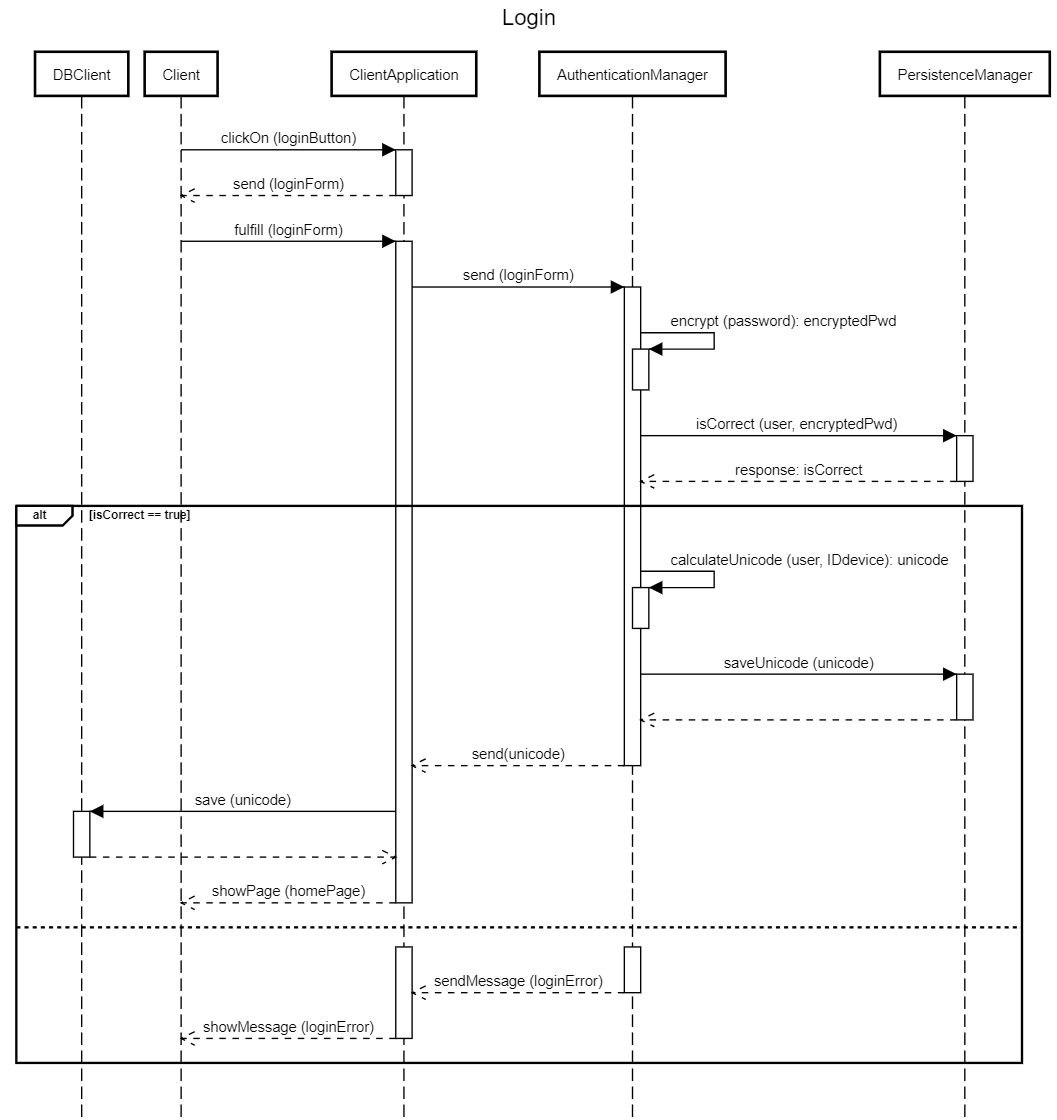
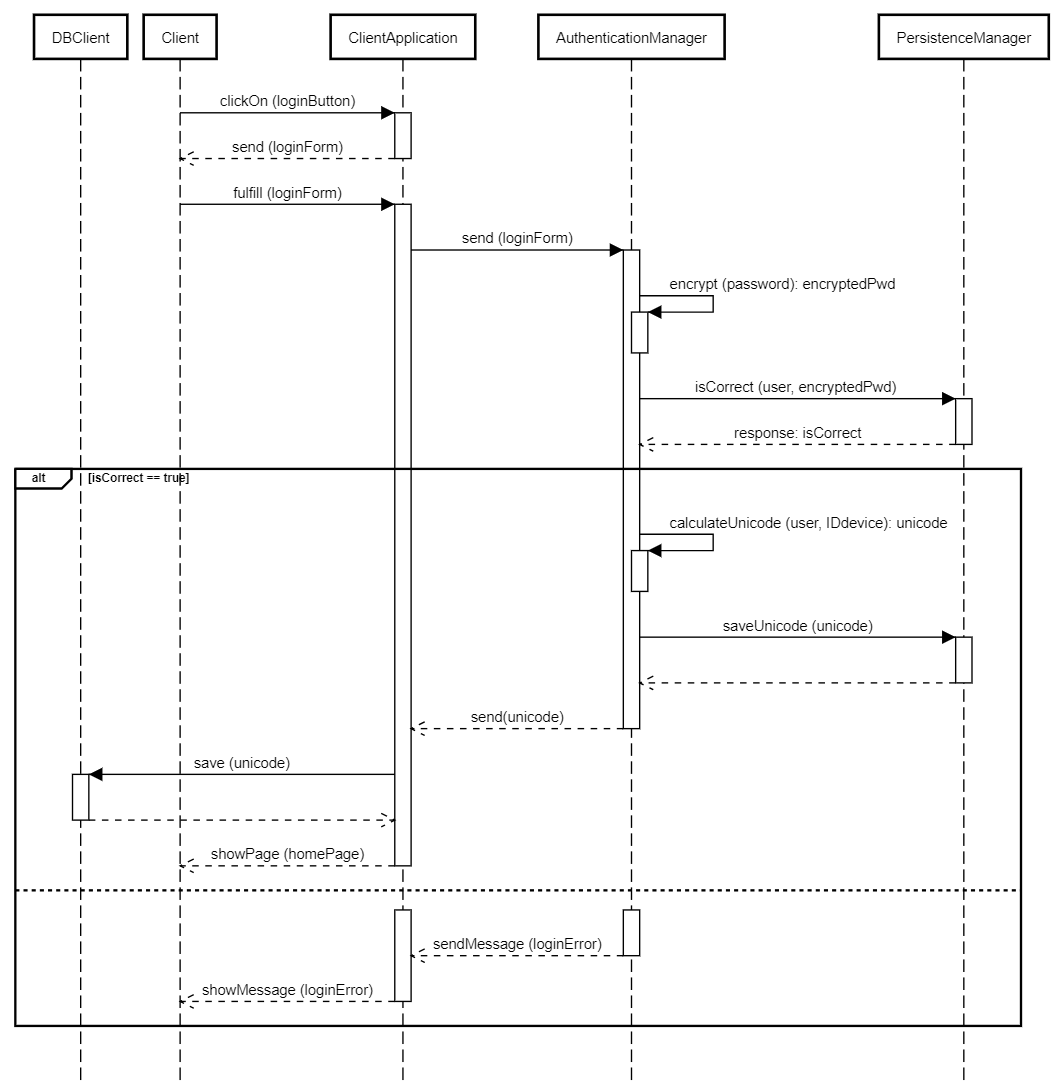
Sequence diagrams in the document

diff --git a/DD/2-ArchitecturalDesign/4-runtime_view.tex b/DD/2-ArchitecturalDesign/4-runtime_view.tex
@@ -1,0 +1,14 @@
+\subsection{Login}
+			\noindent\makebox[\textwidth]{\includegraphics[width=\paperwidth,height=\paperheight,keepaspectratio]{sequence_diagrams/login.png}}
+\subsection{Authentication functions for each operation}
+		\noindent\makebox[\textwidth]{\includegraphics[width=\paperwidth,height=\paperheight,keepaspectratio]{sequence_diagrams/for_each_operation.png}}
+\subsection{Create event}
+		\noindent\makebox[\textwidth]{\includegraphics[width=\paperwidth,height=\paperheight,keepaspectratio]{sequence_diagrams/create_event.png}}
+\subsection{Arrange trip}
+		\noindent\makebox[\textwidth]{\includegraphics[width=\paperwidth,height=\paperheight,keepaspectratio]{sequence_diagrams/arrange_trip.png}}
+\subsection{Obtain feasible paths}
+		\noindent\makebox[\textwidth]{\includegraphics[width=\paperwidth,height=\paperheight,keepaspectratio]{sequence_diagrams/obtain_feasible_paths.png}}
+\subsection{Choose between overlapping events}
+		\noindent\makebox[\textwidth]{\includegraphics[width=\paperwidth,height=\paperheight,keepaspectratio]{sequence_diagrams/choose_between_overlapping_events.png}}
+\subsection{Strike announcement}
+		\noindent\makebox[\textwidth]{\includegraphics[width=\paperwidth,height=\paperheight,keepaspectratio]{sequence_diagrams/strike_announcement.png}}

diff --git a/DD/DD.tex b/DD/DD.tex
@@ -99,7 +99,7 @@
 			
 		\section{Runtime view}
 		\label{sect:Runtime view}
-			\todo{TODO}
+			\input{./2-ArchitecturalDesign/4-runtime_view.tex}
 			
 		\section{Component interfaces}
 		\label{sect:Component interfaces}
